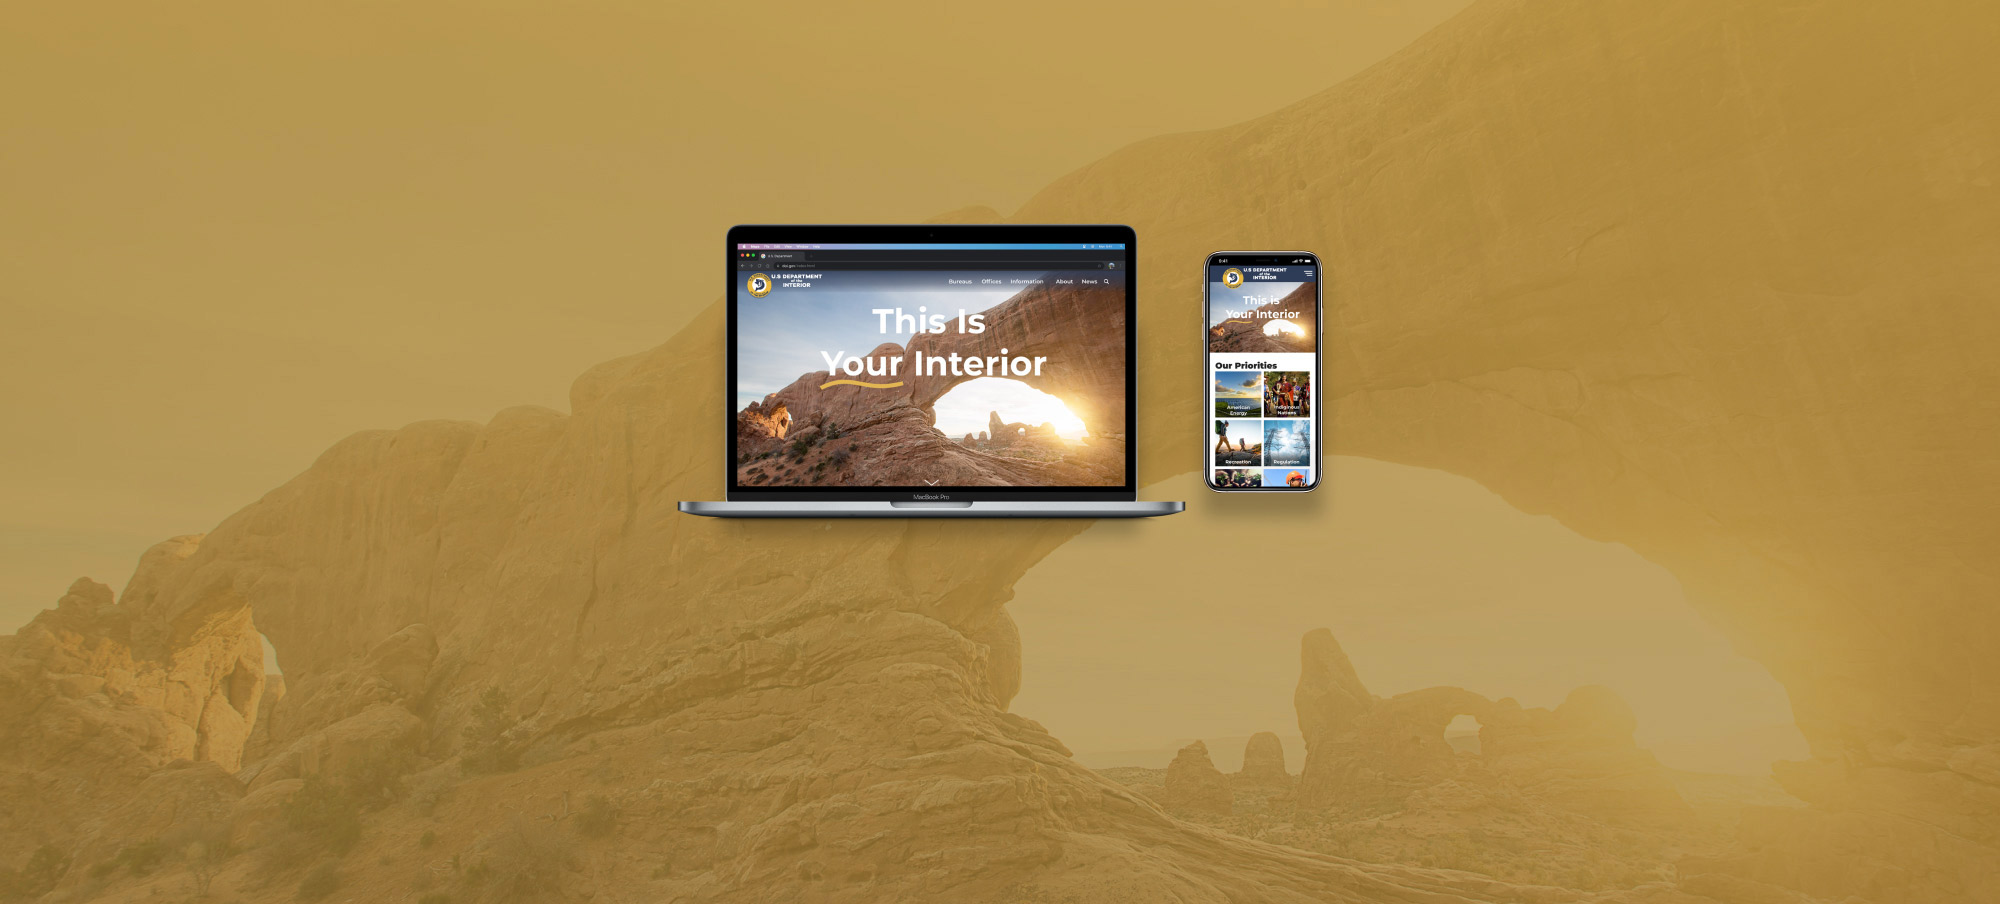
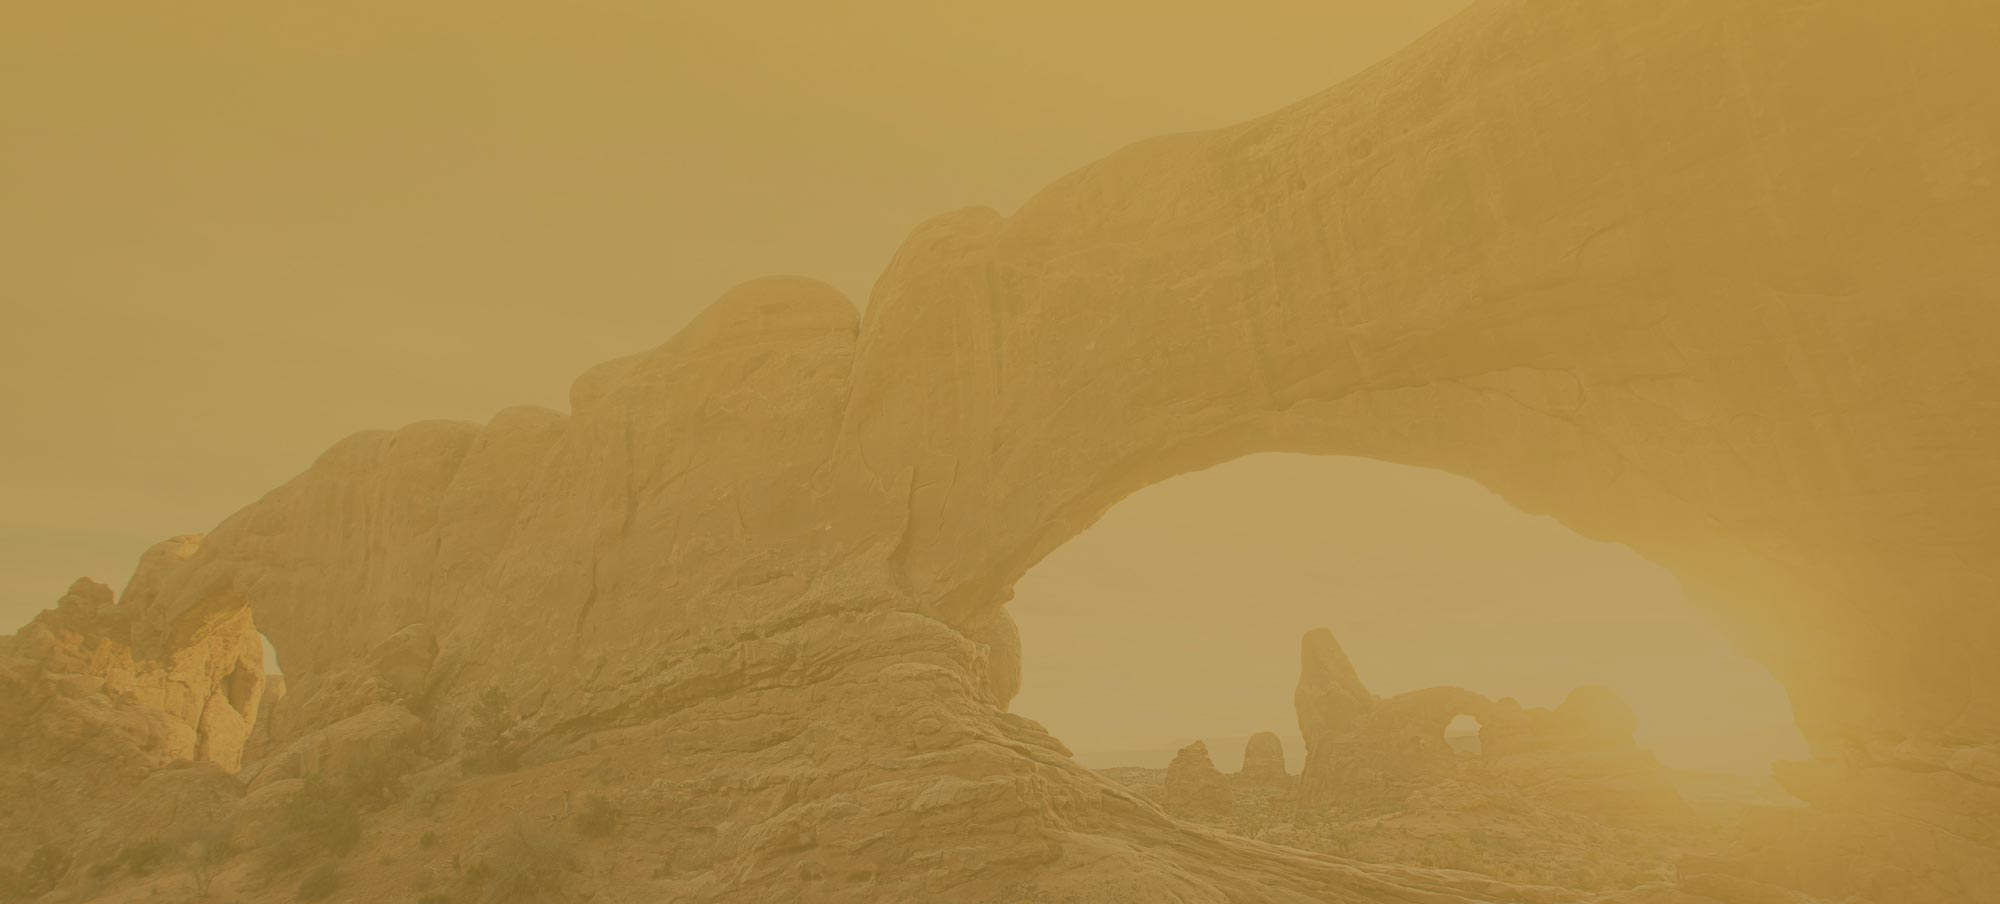
updating images

Changed region(s): [[0.341, 0.2478, 0.682, 0.5885]]

diff --git a/deptInterior.html b/deptInterior.html
@@ -45,6 +45,7 @@
         </header>
             <section id="introContent">
                 <div id="intro">
+                    <img class="heroImg" src="images/GovRedesign/hero/DoiMock.webp">
                     <div class="heroText">
                         <h1>U.S. Department of the Interior</h1>
                         <h3>website redesign concept</h3>

diff --git a/css/caseStudyStyle.css b/css/caseStudyStyle.css
@@ -25,12 +25,20 @@ li a:hover {
     background-repeat: no-repeat;
     height: 45vw;
 }
+#intro img {
+    width: 45%;
+    margin: 0 auto;
+    position: relative;
+    left: 50%;
+    transform: translate(-50%);
+    top: 23%;
+}
 
 .heroText {
     position: relative;
     text-align: center;
     width: 100vw;
-    top:31vw;
+    top:12vw;
     
 }
 
